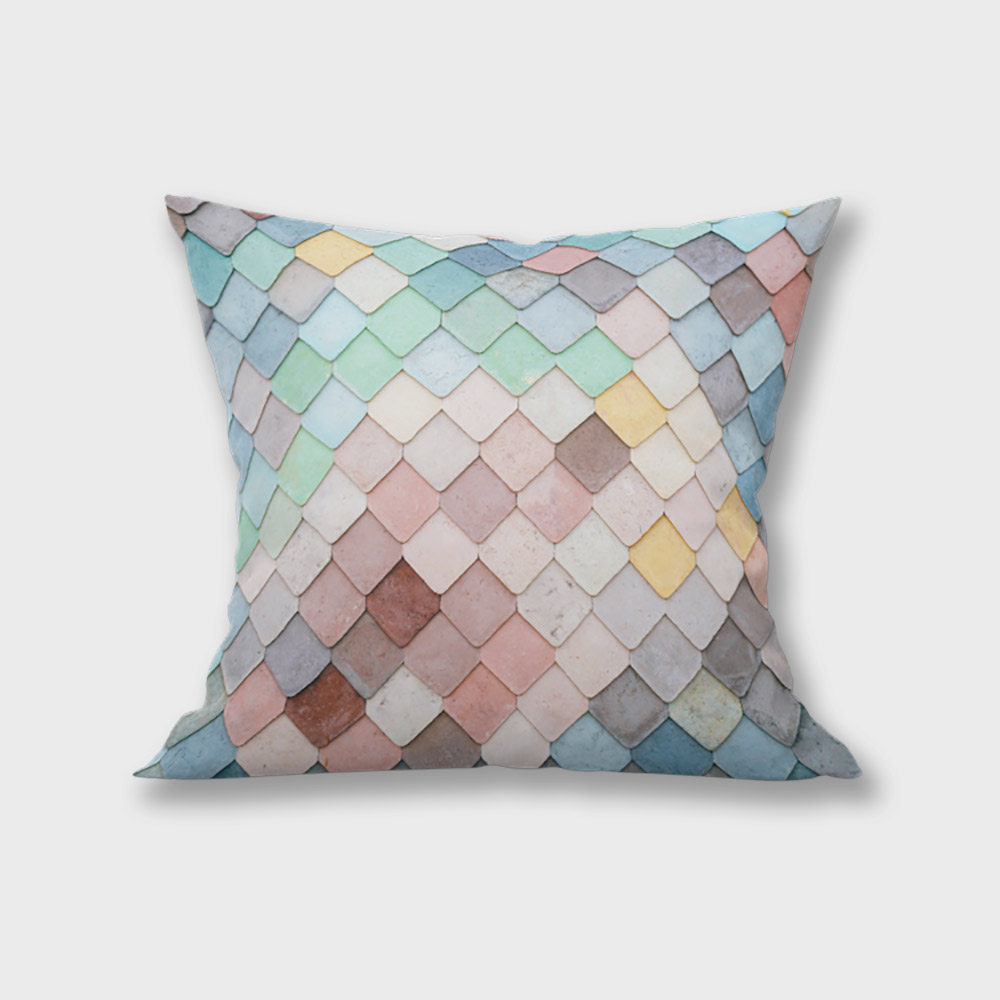
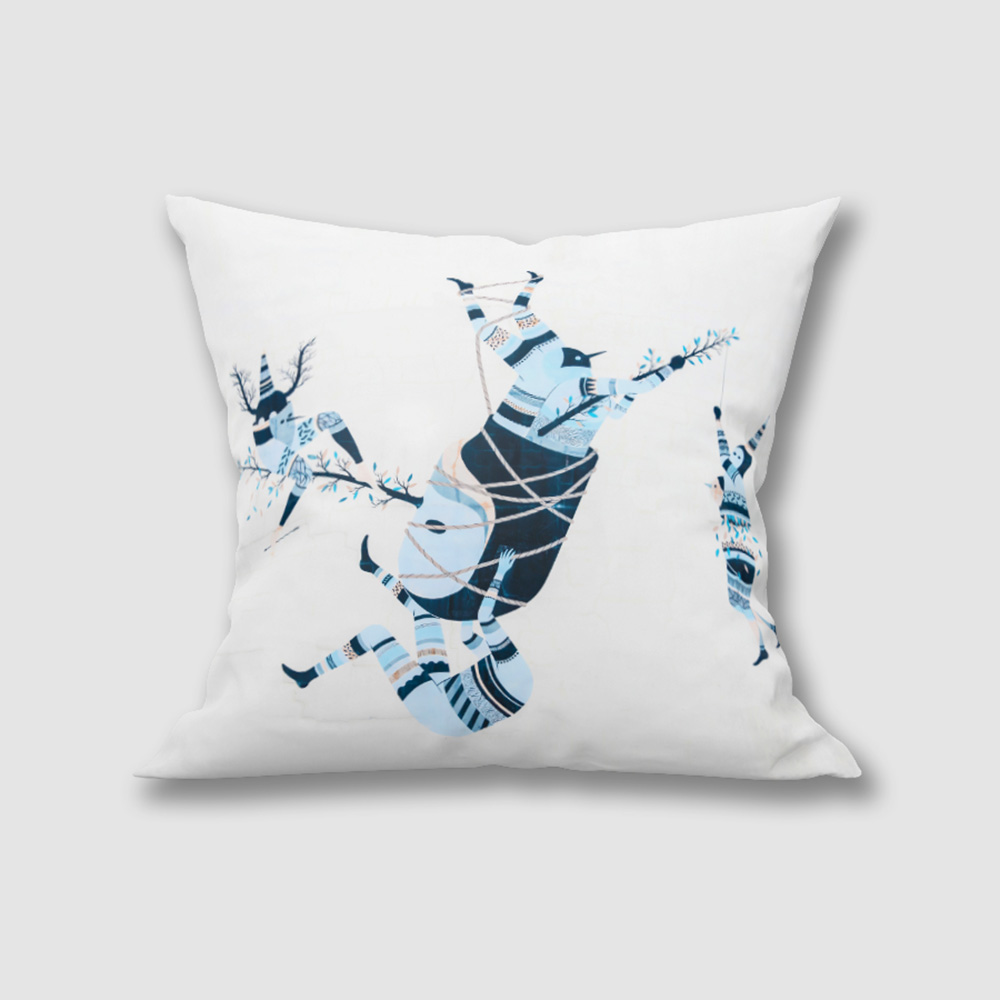
Change mockup images, complete 'Featured Products' section on homepage

diff --git a/_patterns/sections/featured-categories.html b/_patterns/sections/featured-categories.html
@@ -1,19 +1,19 @@
-<h2 class="zetta center-text">Products of the Month</h2>
+<h2 class="zetta center-text">Featured Products</h2>
 
 <div class="grid wrapper-75">
   <div class="unit xs-1 s-1-2 m-1-4 l-1-4 gutter-1-2">
-    {% pattern cards/thumbnail-card-sq title="Throw pillows" image="square-pillow.jpg" %}
+    {% pattern cards/thumbnail-card-sq title="T-shirts" image="t-shirt-col.jpg" %}
   </div>
 
   <div class="unit xs-1 s-1-2 m-1-4 l-1-4 gutter-1-2">
-    {% pattern cards/thumbnail-card-sq title="Throw pillows" image="square-pillow.jpg" %}
+    {% pattern cards/thumbnail-card-sq title="Throw pillows" image="square-pillow-col.jpg" %}
   </div>
 
   <div class="unit xs-1 s-1-2 m-1-4 l-1-4 gutter-1-2">
-    {% pattern cards/thumbnail-card-sq title="Throw pillows" image="square-pillow.jpg" %}
+    {% pattern cards/thumbnail-card-sq title="Mugs" image="mug-col.jpg" %}
   </div>
 
   <div class="unit xs-1 s-1-2 m-1-4 l-1-4 gutter-1-2">
-    {% pattern cards/thumbnail-card-sq title="Throw pillows" image="square-pillow.jpg" %}
+    {% pattern cards/thumbnail-card-sq title="Tote Bags" image="tote-bag-col.jpg" %}
   </div>
 </div>
